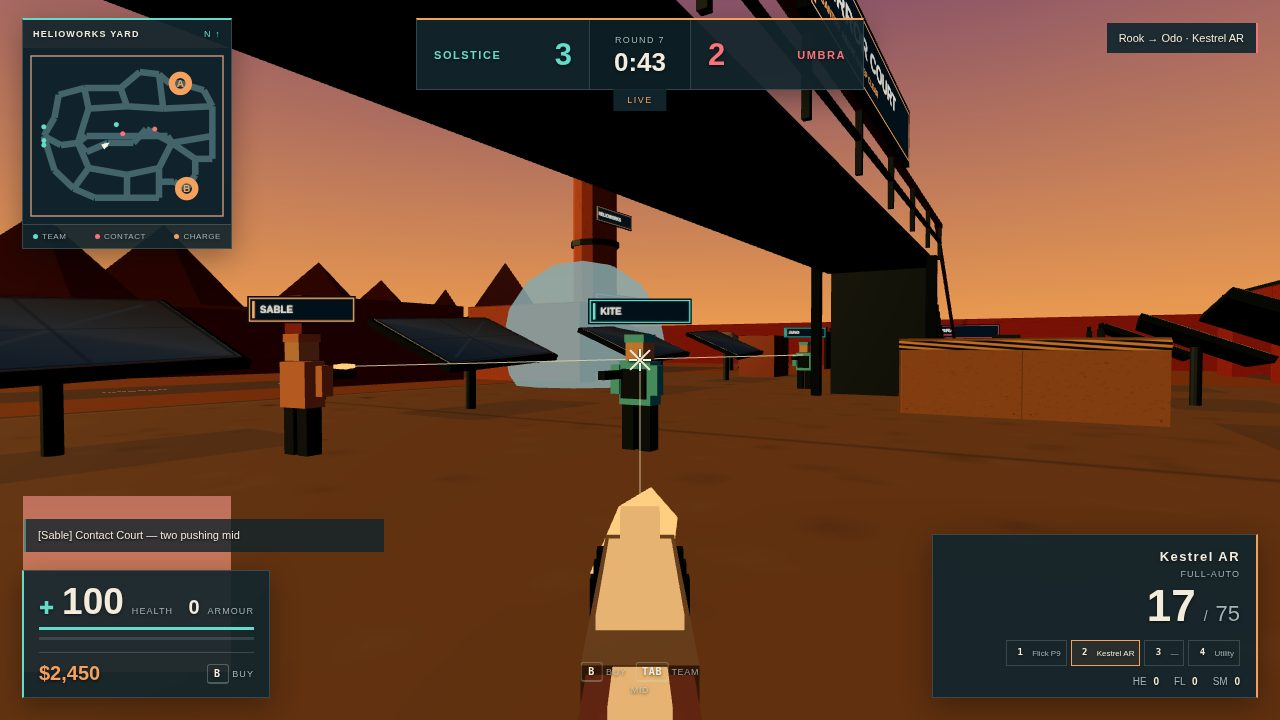
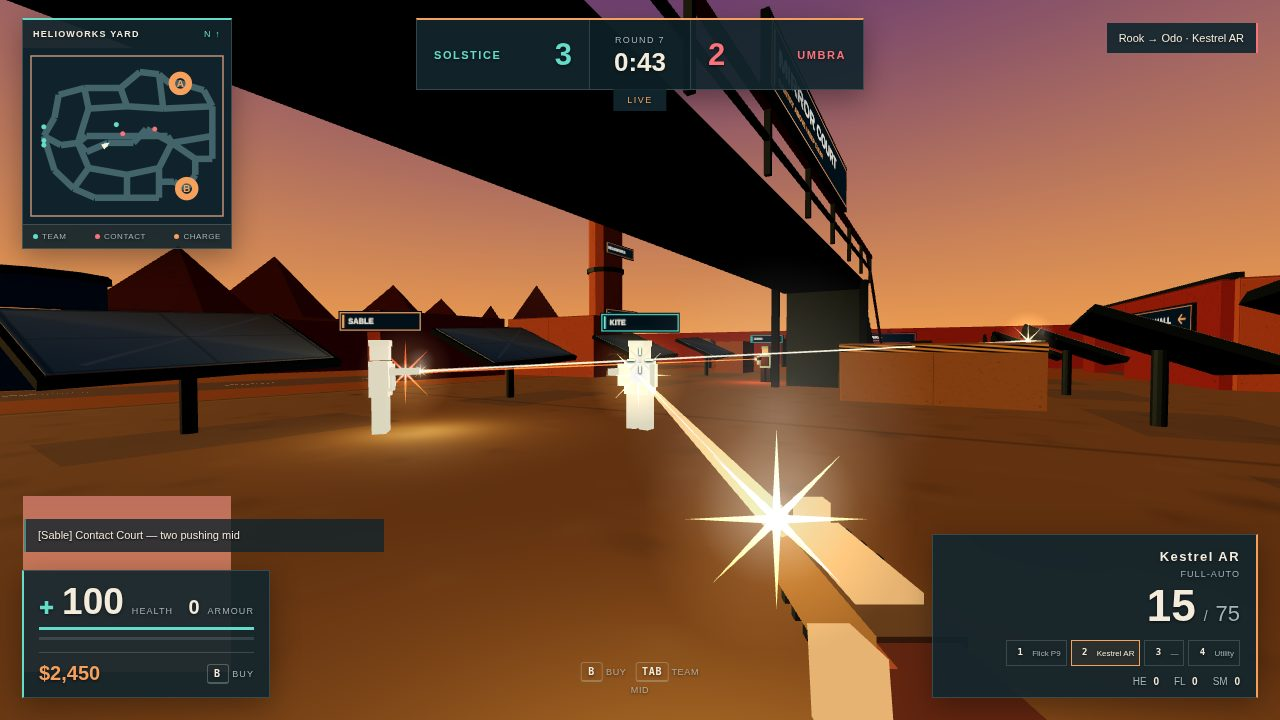
Make gunfire unmistakable: full-frame tracers, impact starbursts, muzzle smoke

diff --git a/game/src/weapons.js b/game/src/weapons.js
@@ -1,5 +1,5 @@
 import * as THREE from 'three';
-import{PALETTE as P,material,unlit}from './palette.js';
+import{PALETTE as P,material,unlit,canvasTexture}from './palette.js';
 import{segmentAABB,traceSegment,lineOfSight as worldSight}from './world.js';
 export const WEAPONS ={};
 const FIELDS='name price damage mag reserve interval reload auto spread move recoil bloom radius slot'.split(' ');
@@ -17,7 +17,7 @@ export const UTILITIES ={
  flare:{name:'Flare',price:200,fuse:1.25,color:P.white},
  veil:{name:'Veil smoke',price:300,fuse:1.5,color:P.shadow},
 };
-const EMPTY=[],UP=new THREE.Vector3(0,1,0),Z=new THREE.Vector3(0,0,1);
+const EMPTY=[],UP=new THREE.Vector3(0,1,0);
 const KEYS=[['Digit1','sidearm'],['Digit2','primary'],['Digit4','shard'],['Digit5','flare'],['Digit6','veil']];
 function gun(id){return{id,def:WEAPONS[id],mag:WEAPONS[id].mag,reserve:WEAPONS[id].reserve,nextShot:0,reloadUntil:0,bloom:0};}
 export function createLoadout(){
@@ -143,18 +143,21 @@ export class Weapons{
    this.damage(victim,g.def.damage*(part==='head'?4:part==='limb'?0.75:1),a,part,g.id);
    n.copy(d).negate();
   }
-  if(victim||wall!==Infinity)this.sparks(e,n);
+  const color=a.team==='umbra'?P.tracerRed:P.tracerGold;
+  if(victim||wall!==Infinity)this.sparks(e,n,color);
   if(a===this.player){
    this.models[g.id].userData.muzzle.getWorldPosition(m);
    a.recoil(g.def.recoil*(a.crouched?0.75:1),(this.rand()-0.5)*g.def.recoil*0.4);
    this.kick=Math.min(0.09,this.kick+0.035);
-  }else m.copy(o).addScaledVector(d,0.45);
-  this.tracer(m,e);this.muzzleFlash(m,d);
+  }else if(a.muzzle){a.muzzle.updateWorldMatrix(true,false);a.muzzle.getWorldPosition(m);}
+  else m.copy(o).addScaledVector(d,0.45);
+  this.tracer(m,e,color);this.muzzleFlash(m,d,color);
   g.bloom=Math.min(0.065,g.bloom+g.def.bloom);
   this.sound('shot',a,o,g.def.radius,g.id);return true;
  }
  updateLoadout(a,dt){
   if(a!==this.player)a.flash=Math.max(0,(a.flash||0)-dt);
+  a.updateHit?.(dt);
   const l=this.ensure(a);
   for(const id in l.guns){
    const g=l.guns[id];g.bloom*=Math.exp(-(a.crouched?8:5)*dt);
@@ -222,6 +225,12 @@ export class Weapons{
  }
  buildPools(){
   const particle=new THREE.IcosahedronGeometry(1,0);
+  const glow=color=>unlit(color,{transparent:true,depthWrite:false,blending:THREE.AdditiveBlending,toneMapped:false,side:THREE.DoubleSide});
+  const shape=new THREE.Shape();
+  for(let i=0;i<16;i++){const a=i*Math.PI/8,r=i%2?0.12:1;shape[i?'lineTo':'moveTo'](Math.cos(a)*r,Math.sin(a)*r);}shape.closePath();
+  const star=new THREE.ShapeGeometry(shape),halo=canvasTexture(32,32,(c)=>{
+   const g=c.createRadialGradient(16,16,0,16,16,16);g.addColorStop(0,'#ffffff');g.addColorStop(0.25,'#ffffff99');g.addColorStop(1,'#ffffff00');c.fillStyle=g;c.fillRect(0,0,32,32);
+  });
   const pool=(count,geometry,mat,kind=0)=>{
    const list=[];
    for(let i=0;i<count;i++){
@@ -229,43 +238,73 @@ export class Weapons{
     if(kind===3){
      const g=new THREE.BufferGeometry();
      g.setAttribute('position',new THREE.BufferAttribute(new Float32Array(6),3).setUsage(THREE.DynamicDrawUsage));
-     mesh=new THREE.Line(g,mat);mesh.frustumCulled=false;
-    }else mesh=new THREE.Mesh(geometry,kind===2?mat.clone():mat);
+     mesh=new THREE.Line(g,mat.clone());mesh.frustumCulled=false;
+     mesh.add(new THREE.Mesh(new THREE.CylinderGeometry(1,1,1,6),glow(P.tracerGold)));
+    }else mesh=new THREE.Mesh(geometry,mat.clone());
+    if(kind===4||kind===5){
+     const core=new THREE.Mesh(star,glow(P.white));core.scale.setScalar(0.4);mesh.add(core);
+     const haze=new THREE.Sprite(new THREE.SpriteMaterial({map:halo,color:P.glint,transparent:true,depthWrite:false,blending:THREE.AdditiveBlending,toneMapped:false}));haze.scale.set(3,3,1);mesh.add(haze);
+    }
     mesh.visible=false;this.effects.add(mesh);
     list.push({mesh,life:0,age:0,velocity:new THREE.Vector3(),previous:new THREE.Vector3(),kind,radius:0,owner:null,type:''});
    }
    return list;
   };
-  this.tracers=pool(28,null,new THREE.LineBasicMaterial({color:P.glint,transparent:true,opacity:0.85}),3);
-  this.flashes=pool(10,particle,unlit(P.glint,{toneMapped:false}));
-  this.sparkPool=pool(40,particle,unlit(P.orange,{toneMapped:false}),1);
+  this.tracers=pool(32,null,new THREE.LineBasicMaterial({color:P.tracerGold,transparent:true,depthWrite:false,blending:THREE.AdditiveBlending,toneMapped:false}),3);
+  this.flashes=pool(10,star,glow(P.tracerGold),4);
+  this.impacts=pool(20,star,glow(P.tracerGold),5);
+  this.puffs=pool(128,new THREE.PlaneGeometry(1,1),unlit(P.white,{map:halo,transparent:true,depthWrite:false}),6);
+  this.lights=Array.from({length:4},()=>{const light=new THREE.PointLight(P.glint,0,5,2);this.effects.add(light);return{light,life:0};});
+  this.sparkPool=pool(60,particle,glow(P.orange),1);
   this.blasts=pool(4,particle,unlit(P.orange,{transparent:true,opacity:0.6,depthWrite:false,toneMapped:false}),2);
-  this.particles=[...this.flashes,...this.sparkPool,...this.blasts];
+  this.particles=[...this.flashes,...this.impacts,...this.puffs,...this.sparkPool,...this.blasts];
   this.grenadeMats={};for(const id in UTILITIES)this.grenadeMats[id]=material(UTILITIES[id].color,{metalness:0.4});
   this.grenades=pool(20,new THREE.IcosahedronGeometry(0.11,1),this.grenadeMats.shard);
   this.smokes=pool(10,new THREE.SphereGeometry(1,12,8),unlit(P.smoke,{transparent:true,opacity:0.86,depthWrite:false}));
   this._pools=[this.tracers,this.particles,this.grenades,this.smokes];
-  this.ti=this.fi=this.si=this.bi=0;
+  this.ti=this.fi=this.si=this.bi=this.ii=this.pi=0;
  }
- tracer(a,b){
+ tracer(a,b,color=P.tracerGold){
   const t=this.tracers[this.ti++%this.tracers.length],attr=t.mesh.geometry.attributes.position;
-  attr.setXYZ(0,a.x,a.y,a.z);attr.setXYZ(1,b.x,b.y,b.z);attr.needsUpdate=true;t.life=0.065;t.mesh.visible=true;
+  attr.setXYZ(0,a.x,a.y,a.z);attr.setXYZ(1,b.x,b.y,b.z);attr.needsUpdate=true;t.life=0.15;t.mesh.visible=true;
+  t.mesh.material.color.setHex(color);t.mesh.material.opacity=1;
+  const glow=t.mesh.children[0];glow.material.color.setHex(color);glow.material.opacity=0.4;
+  glow.position.copy(a).lerp(b,0.5);glow.scale.set(0.025,a.distanceTo(b),0.025);
+  glow.quaternion.setFromUnitVectors(UP,this._right.copy(b).sub(a).normalize());
  }
- muzzleFlash(position,dir){
-  const p=this.flashes[this.fi++%this.flashes.length];p.life=0.045;p.mesh.visible=true;
-  p.mesh.position.copy(position);p.mesh.quaternion.setFromUnitVectors(Z,dir);p.mesh.scale.set(0.055,0.055,0.23);
+ star(p,position,size,life,color){
+  p.life=p.duration=life;p.mesh.visible=true;p.mesh.position.copy(position);p.mesh.scale.setScalar(size);
+  p.mesh.quaternion.copy(this.camera.quaternion);p.mesh.material.color.setHex(color);p.mesh.material.opacity=1;
+  for(const child of p.mesh.children)child.material.opacity=child.isSprite?0.45:1;
  }
- sparks(position,normal){
+ muzzleFlash(position,dir,color=P.tracerGold){
+  const pulse=this.lights[this.fi%this.lights.length],p=this.flashes[this.fi++%this.flashes.length];
+  this.star(p,position,0.16,0.075,color);p.mesh.renderOrder=21;
+  pulse.life=0.075;pulse.light.position.copy(position);pulse.light.color.setHex(color);pulse.light.intensity=7;
+  this.puff(position,0.25,0.5);
+ }
+ puff(position,size,life){
+  const p=this.puffs[this.pi++%this.puffs.length];p.life=p.duration=life;p.age=0;p.radius=size;p.mesh.visible=true;
+  p.mesh.position.copy(position);p.mesh.quaternion.copy(this.camera.quaternion);p.mesh.scale.setScalar(size);p.mesh.material.opacity=0.6;
+ }
+ sparks(position,normal,color=P.tracerGold){
+  const burst=this.impacts[this.ii++%this.impacts.length];this.star(burst,position,0.65,0.12,color);
+  burst.mesh.position.addScaledVector(normal,0.025);this.puff(burst.mesh.position,0.35,0.35);
   for(let i=0;i<5;i++){
-   const p=this.sparkPool[this.si++%this.sparkPool.length];p.life=0.12+this.rand()*0.12;p.mesh.visible=true;
+   const p=this.sparkPool[this.si++%this.sparkPool.length];p.life=p.duration=0.12+this.rand()*0.12;p.mesh.visible=true;p.mesh.material.opacity=1;p.mesh.material.color.setHex(color);
    p.mesh.position.copy(position);p.mesh.scale.setScalar(0.025);
    p.velocity.set((this.rand()-0.5)*3,this.rand()*3,(this.rand()-0.5)*3).addScaledVector(normal,2);
   }
  }
  updateEffects(dt){
-  for(const t of this.tracers)if(t.life>0){t.life-=dt;t.mesh.visible=t.life>0;}
+  for(const t of this.tracers)if(t.life>0){t.life-=dt;t.mesh.visible=t.life>0;t.mesh.material.opacity=Math.max(0,t.life/0.15);t.mesh.children[0].material.opacity=t.mesh.material.opacity*0.4;}
+  for(const p of this.lights){p.life=Math.max(0,p.life-dt);p.light.intensity=7*p.life/0.075;}
   for(const p of this.particles)if(p.life>0){
    p.life-=dt;p.mesh.visible=p.life>0;
+   const fade=Math.max(0,p.life/p.duration);
+   if(p.kind!==2)p.mesh.material.opacity=fade*(p.kind===6?0.6:1);
+   if(p.kind>=4){p.mesh.quaternion.copy(this.camera.quaternion);for(const c of p.mesh.children)c.material.opacity=fade*(c.isSprite?0.45:1);}
+   if(p.kind===6){p.age+=dt;p.mesh.scale.setScalar(p.radius+p.age*1.5);p.mesh.position.y+=dt*0.9;}
    if(p.kind===1){p.velocity.y-=9*dt;p.mesh.position.addScaledVector(p.velocity,dt);}
    if(p.kind===2){p.mesh.scale.setScalar((1-p.life/0.35)*p.radius+0.2);p.mesh.material.opacity=Math.max(0,p.life/0.35)*0.6;}
   }
@@ -340,5 +379,6 @@ export class Weapons{
  lineOfSight(a,b){return worldSight(a,b)&&!this.blocksSight(a,b);}
  resetEffects(){
   for(const pool of this._pools)for(const p of pool){p.life=0;p.mesh.visible=false;}
+  for(const p of this.lights){p.life=0;p.light.intensity=0;}
  }
 }

diff --git a/game/src/bots.js b/game/src/bots.js
@@ -24,22 +24,28 @@ export class Bot{
   this.buildBody();system.weapons.ensure(this);
  }
  buildBody(){
-  const s=this.system,m=s.mats[this.team],root=new THREE.Group(),rig=new THREE.Group();
+  const s=this.system,m=s.mats[this.team].clone(),root=new THREE.Group(),rig=new THREE.Group();
+  this.hitMats=[m,s.mats.dark.clone(),s.mats.skin.clone()];this.hitGlow=0;
   root.add(rig);s.scene.add(root);this.body=root;this.rig=rig;
-  const box=(mat,x,y,z,w,h,d)=>{const mesh=new THREE.Mesh(s.cube,mat);mesh.position.set(x,y,z);mesh.scale.set(w,h,d);rig.add(mesh);return mesh;};
+  const box=(mat,x,y,z,w,h,d)=>{if(mat===s.mats.dark)mat=this.hitMats[1];if(mat===s.mats.skin)mat=this.hitMats[2];const mesh=new THREE.Mesh(s.cube,mat);mesh.position.set(x,y,z);mesh.scale.set(w,h,d);rig.add(mesh);return mesh;};
   box(m,0,1.05,0,0.56,0.67,0.32);box(s.mats.dark,0,1.04,-0.18,0.43,0.45,0.08);
   this.head=box(s.mats.skin,0,1.57,0,0.32,0.34,0.32);box(m,0,1.73,0,0.35,0.12,0.35);
   this.legs=[box(s.mats.dark,-0.15,0.37,0,0.21,0.74,0.24),box(s.mats.dark,0.15,0.37,0,0.21,0.74,0.24)];
   this.arms=new THREE.Group();this.arms.position.y=1.25;rig.add(this.arms);
   for(const x of [-0.34,0.34])this.arms.attach(box(m,x,1.1,-0.1,0.16,0.45,0.18));
   this.arms.attach(box(s.mats.dark,0.23,1.18,-0.38,0.12,0.13,0.64));
+  this.muzzle=new THREE.Object3D();this.muzzle.position.set(0.23,-0.07,-0.72);this.arms.add(this.muzzle);
   const map=signTexture(this.name,{width:256,height:64,accent:this.team==='solstice'?P.orange:P.solstice});
   this.tag=new THREE.Sprite(new THREE.SpriteMaterial({map,depthWrite:false}));this.tag.scale.set(1.6,0.4,1);this.tag.position.y=2.15;root.add(this.tag);root.position.copy(this.position);
   this.tag.onBeforeRender=(_,__,camera)=>{const k=Math.min(1,this.tag.getWorldPosition(this.eye).distanceTo(camera.position)*0.23/camera.projectionMatrix.elements[5]);this.tag.scale.set(1.6*k,0.4*k,1);this.tag.updateMatrixWorld();};
  }
  getEye(out){out.copy(this.position);out.y+=this.height-0.15;return out;}
  shake(){} // Damage uses the human armour rule.
- takeDamage(amount,source=null,part='torso'){return Player.prototype.takeDamage.call(this,amount,source,part);}
+ takeDamage(amount,source=null,part='torso'){
+  const dealt=Player.prototype.takeDamage.call(this,amount,source,part);
+  if(dealt>0){this.hitGlow=0.12;this.updateHit(0);}return dealt;
+ }
+ updateHit(dt){this.hitGlow=Math.max(0,this.hitGlow-dt);for(const m of this.hitMats){m.emissive.setHex(P.tracerGold);m.emissiveIntensity=this.hitGlow/0.12*0.8;}}
  onDeath(self,source,part){
   this.stopChannel();this.state='DOWN';this.target=null;this.tag.visible=false;
   this.system.onKill?.(source,this,part==='head');
@@ -47,6 +53,7 @@ export class Bot{
  respawn(){
   this.stopChannel();this.position.copy(this.spawn);this.velocity.set(0,0,0);
   this.health=100;this.alive=true;this.height=1.75;this.grounded=true;this.flash=this.ads=this.fall=this.stride=0;
+  this.updateHit(1);
   this.target=null;this.crouched=false;this.path.length=0;this.body.position.copy(this.position);this.body.rotation.set(0,0,0);this.tag.visible=true;
  }
  go(position,state='ROUTE'){

diff --git a/game/src/hud.js b/game/src/hud.js
@@ -10,6 +10,10 @@ export class HUD{
   this.rows=new Map([...document.querySelectorAll('#scoreboard tbody tr')].map(n=>[n.dataset.player,n]));
   this.loads=[...this.e['team-loadout'].children];this.slots=[...this.e['weapon-slots'].children];
   this.ctx=this.e.minimap.getContext('2d');
+  this.fightCover=new URLSearchParams(location.search).get('shot')==='fight';
+  // Generate a one-pixel gold ICO locally before the browser requests a favicon.
+  const ico=new Uint8Array(70);ico.set([0,0,1,0,1,0,1,1,0,0,1,0,32,0,48,0,0,0,22]);ico.set([40,0,0,0,1,0,0,0,2,0,0,0,1,0,32],22);ico.set([129,207,255,255],62);
+  const icon=document.createElement('link');icon.rel='icon';icon.href=URL.createObjectURL(new Blob([ico],{type:'image/x-icon'}));document.head.append(icon);
   this.e['start-button'].onclick=()=>{if(!this.started){this.started=true;this.onStart?.();}void this.p.input.lock();};
   this.e['buy-close'].onclick=()=>this.openBuy(false);
   this.e['buy-grid'].onclick=e=>{const card=e.target.closest('[data-buy]');if(card){this.selected=card.dataset.buy;rounds.buy(this.p,this.selected);}};
@@ -42,6 +46,7 @@ export class HUD{
   this.e['radio-log'].append(li);this.log.push({li,until:this.r.state.time+9});if(this.log.length>3)this.log.shift().li.remove();
  }
  update(){
+  if(this.fightCover){this.fightCover=false;this.stageFight();}
   const t=this.t,h=this.h,e=this.e;
   const s=this.r.snapshot,p=this.p,c=s.charge,l=p.loadout,g=this.w.current(p),utility=UTILITIES[l.selected],end=s.phase==='END';
   if(s.phase!=='BUY')this.buyOpen=false;
@@ -66,6 +71,18 @@ export class HUD{
   h('scoreboard',this.tab||end);if(this.tab||end)this.board(s);
   for(const list of [this.feed,this.log])for(let i=list.length-1;i>=0;i--){const n=list[i];n.li.style.opacity=Math.min(1,(n.until-s.time)/2);if(n.until<=s.time){n.li.remove();list.splice(i,1);}}
   if(this.buyOpen)this.buy(s);if(s.time>=this.mapAt){this.mapAt=s.time+0.1;this.map(s);}
+ }
+ stageFight(){
+  // Re-stage the existing frozen cover with real shots through the combat path.
+  const w=this.w,p=this.p,[sable,kite,juno]=['Sable','Kite','Juno'].map(n=>this.r.state.actors.find(a=>a.name===n));
+  w.resetEffects();p.ads=0;p.syncCamera();w.update(0,false);
+  const shoot=(a,b)=>{
+   const d=b.position.clone();d.y+=1.1;d.sub(w.eye(a,a.position.clone())).normalize();
+   if(a.body){a.yaw=Math.atan2(-d.x,-d.z);a.body.rotation.y=a.yaw;a.arms.rotation.x=Math.atan2(d.y,Math.hypot(d.x,d.z));}
+   w.fire(a,d);
+  };
+  const far={position:kite.position.clone().set(45,2,35)};
+  shoot(p,kite);shoot(sable,far);w.update(0.18,false);shoot(p,kite);shoot(sable,far);shoot(juno,sable);w.updateEffects(0.025);
  }
  buy(s){
   const p=this.p,l=p.loadout;this.t('buy-cash',money(p.cash));this.t('buy-timer',clock(s.timer));this.t('buy-feedback',s.notice);

diff --git a/game/src/palette.js b/game/src/palette.js
@@ -14,6 +14,8 @@ export const PALETTE = Object.freeze({
   shadow: 0x276578,
   mirror: 0xf4f0d9,
   glint: 0xffcf81,
+  tracerGold: 0xfff1bc,
+  tracerRed: 0xff5426,
   orange: 0xf5a05d,
   sun: 0xff8833,
   skyTop: 0x28204f,
